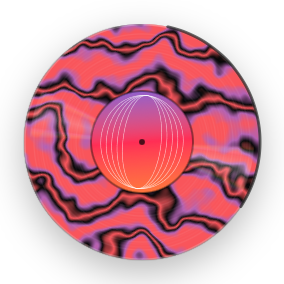
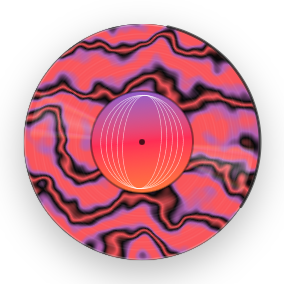
Keep vinyl opaque through interrupted pressing dissolves
Retain an opaque backing under fading pressing layers so track changes never expose the desktop. Add native annulus alpha assertions for ordinary and interrupted dissolves, including Reduce Transparency.

Verified the failing native opacity assertion before the fix; all four cases now report alpha 1.0. The full 314-test suite, macOS build, cache fixture and native lifecycle fixture pass. Save updated evidence and keep GPU/live-runtime acceptance limitations explicit.

Changed region(s): [[0.0845, 0.0845, 0.9296, 0.9296], [0.7042, 0.8451, 0.7324, 0.8732], [0.2817, 0.507, 0.3099, 0.5352]]

diff --git a/docs/superpowers/verification/VinylPressingProbe.swift b/docs/superpowers/verification/VinylPressingProbe.swift
@@ -224,15 +224,35 @@ private struct PressingProbeScene: View {
         try require(annulusDifference(cImage, repeated, center: controller.layout.recordCenter, diameter: controller.layout.recordDiameter) < 0.003, "occurrence must not change pressing")
         select("spotify:track:pressingB", artwork: bURL)
         try await settle(200)
-        try await capture(panel, output: output, name: "dissolve-b-200ms")
+        let dissolving = try await capture(panel, output: output, name: "dissolve-b-200ms")
+        try requireOpaque(dissolving, center: controller.layout.recordCenter, diameter: controller.layout.recordDiameter,
+                          name: "ordinary dissolve")
         try require(MonolithPressingProbe.layers >= 2, "dissolve must retain outgoing layer")
         select("spotify:track:pressingA", artwork: aURL)
         try await settle(200)
         let interrupted = try await capture(panel, output: output, name: "dissolve-interrupted-200ms")
+        try requireOpaque(interrupted, center: controller.layout.recordCenter, diameter: controller.layout.recordDiameter,
+                          name: "interrupted dissolve")
         try require(saturatedFraction(interrupted, center: controller.layout.recordCenter, diameter: controller.layout.recordDiameter) > 0.2, "interrupted dissolve must not flash neutral")
         try await settle(800)
         try require(MonolithPressingProbe.layers == 1, "settled dissolve must release outgoing layers")
         try await stopped("pressing dissolve settled")
+
+        settings.reduceTransparency = true
+        try await settle(300)
+        select("spotify:track:pressingB", artwork: bURL)
+        try await settle(200)
+        let reducedDissolve = try await capture(panel, output: output, name: "dissolve-reduce-transparency-200ms")
+        try requireOpaque(reducedDissolve, center: controller.layout.recordCenter, diameter: controller.layout.recordDiameter,
+                          name: "Reduce Transparency dissolve")
+        select("spotify:track:pressingA", artwork: aURL)
+        try await settle(200)
+        let reducedInterrupted = try await capture(panel, output: output, name: "dissolve-reduce-transparency-interrupted-200ms")
+        try requireOpaque(reducedInterrupted, center: controller.layout.recordCenter, diameter: controller.layout.recordDiameter,
+                          name: "Reduce Transparency interrupted dissolve")
+        try await settle(800)
+        try require(MonolithPressingProbe.layers == 1, "Reduce Transparency dissolve must release outgoing layers")
+        settings.reduceTransparency = false
 
         select("spotify:track:late", artwork: nil); try await settle(800)
         try expect("spotify:track:late", .neutral)
@@ -464,6 +484,21 @@ private struct PressingProbeScene: View {
             }
         }
         return Double(coloured) / Double(max(1, total))
+    }
+    private static func requireOpaque(_ image: CGImage, center: CGPoint, diameter: CGFloat, name: String) throws {
+        let bitmap = NSBitmapImageRep(cgImage: image)
+        var minimumAlpha = 1.0, count = 0
+        for y in stride(from: Int(center.y * 2 - diameter), to: Int(center.y * 2 + diameter), by: 4) {
+            for x in stride(from: Int(center.x * 2 - diameter), to: Int(center.x * 2 + diameter), by: 4) {
+                let distance = hypot(Double(x) - center.x * 2, Double(y) - center.y * 2)
+                guard distance > diameter * 0.55, distance < diameter * 0.85,
+                      let color = bitmap.colorAt(x: x, y: y) else { continue }
+                minimumAlpha = min(minimumAlpha, color.alphaComponent)
+                count += 1
+            }
+        }
+        try require(count > 0 && minimumAlpha >= 0.995, "\(name) must stay opaque; minimum annulus alpha \(minimumAlpha)")
+        print("OPACITY \(name): minimum annulus alpha \(minimumAlpha), \(count) samples"); fflush(stdout)
     }
     private static func annulusDifference(_ first: CGImage, _ second: CGImage, center: CGPoint, diameter: CGFloat) -> Double {
         let a = NSBitmapImageRep(cgImage: first), b = NSBitmapImageRep(cgImage: second)

diff --git a/Bopify/Bopify/Views/VinylRecordView.swift b/Bopify/Bopify/Views/VinylRecordView.swift
@@ -27,6 +27,7 @@ struct VinylRecordView: View {
             ZStack {
                 ZStack {
                     ZStack {
+                        Circle().fill(Color(red: 0.035, green: 0.055, blue: 0.05))
                         VinylPressingView(seed: pressingSeed, palette: palette, diameter: diameter)
                             .id(PressingAppearance(seed: pressingSeed, palette: palette))
                             .transition(.opacity)

diff --git a/docs/superpowers/verification/2026-10-11-vinyl-pressing-and-motor.md b/docs/superpowers/verification/2026-10-11-vinyl-pressing-and-motor.md
@@ -23,7 +23,7 @@ python3 docs/superpowers/verification/run-monolith-probe.py --derived-data /priv
 VINYL_PROBE_COMPARE_DIR="$PWD/docs/superpowers/verification/assets/vinyl-pressing-2026-10-11" python3 docs/superpowers/verification/run-monolith-probe.py --derived-data /private/tmp/bopify-pressing-build --output /private/tmp/bopify-pressing-native --probe pressing --measure-ambient
 ~~~
 
-Saved output: [package](assets/vinyl-pressing-2026-10-11/package-results.txt), [cache](assets/vinyl-pressing-2026-10-11/cache-results.txt), [native](assets/vinyl-pressing-2026-10-11/native-results.txt). Xcode emitted its existing “Supported platforms for the buildables in the current scheme is empty” notice and exited successfully.
+Saved output: [build](assets/vinyl-pressing-2026-10-11/build-results.txt), [package](assets/vinyl-pressing-2026-10-11/package-results.txt), [cache](assets/vinyl-pressing-2026-10-11/cache-results.txt), [native](assets/vinyl-pressing-2026-10-11/native-results.txt). Xcode emitted its existing “Supported platforms for the buildables in the current scheme is empty” notice and exited successfully.
 
 ## Native visual matrix
 
@@ -46,7 +46,7 @@ Accessibility inputs use writable backing keys exposed by the local Xcode 27 Swi
 
 Annulus comparisons exclude the label and rim. Repeating URI C with a different occurrence produces the [same pressing](assets/vinyl-pressing-2026-10-11/identity-c-repeat.png) as [C](assets/vinyl-pressing-2026-10-11/identity-c.png). [A](assets/vinyl-pressing-2026-10-11/identity-a.png) and C share artwork but have different seeded swirls. All 16 matrix annuli had mean RGB difference **0.0** across two independent processes on this hardware.
 
-While B's extractor is suspended, [A stays visible](assets/vinyl-pressing-2026-10-11/identity-b-pending.png), with its original seed. C remains selected when B finishes late. [B at 200 ms](assets/vinyl-pressing-2026-10-11/dissolve-b-200ms.png) and an [interrupted dissolve](assets/vinyl-pressing-2026-10-11/dissolve-interrupted-200ms.png) retain colour. At least two layers exist during a dissolve and exactly one after settling. Missing URL, extraction/HTTP failure, late URL, late Track metadata with known queue URI and mirror URI without metadata resolve to the expected seed/palette pair.
+While B's extractor is suspended, [A stays visible](assets/vinyl-pressing-2026-10-11/identity-b-pending.png), with its original seed. C remains selected when B finishes late. [B at 200 ms](assets/vinyl-pressing-2026-10-11/dissolve-b-200ms.png) and an [interrupted dissolve](assets/vinyl-pressing-2026-10-11/dissolve-interrupted-200ms.png) retain colour and opacity. Their annuli, and both [ordinary](assets/vinyl-pressing-2026-10-11/dissolve-reduce-transparency-200ms.png) and [interrupted](assets/vinyl-pressing-2026-10-11/dissolve-reduce-transparency-interrupted-200ms.png) Reduce Transparency dissolves, each have minimum alpha 1.0 across 2,716 sampled pixels. At least two pressing layers exist during a dissolve and exactly one after settling. Missing URL, extraction/HTTP failure, late URL, late Track metadata with known queue URI and mirror URI without metadata resolve to the expected seed/palette pair.
 
 Cache checks cover image-only thumbnails, one extraction for ten overlapping requests, decoded-image reuse, published/pending palette eviction, clear/replacement races, negative-cache lifetimes, 640 px decoding and the 112-entry cap. Four fixed extraction inputs produced identical values/order in two processes. A solid sRGB fixture pins the readback boundary; it exposed and corrected alpha division and double colour conversion.
 
@@ -89,7 +89,19 @@ Compositor observations only; display labels are local to each trace:
 4. Check buffering policy directly because no model event produces that phase. Risk: the live buffering transition remains unverified.
 5. Use the displayed queue URI while Track metadata is absent; mirror URI has priority. Risk: a neutral pressing takes a pending song seed before metadata confirms it.
 6. Replace the app override with fixture-only SDK backing keys; NSAppearance alone did not change contrast. Risk: the fixture may need adaptation to a future SDK; no underscored API ships.
+7. Leave record-specific GPU regression unverified because the owned-process traces lack attributed GPU intervals. Risk: an undetected GPU regression.
+8. Leave live Spotify buffering/recovery unverified because no live session or buffering event path was exercised; playback-model changes remain outside scope. Risk: live transitions could differ from fixtures.
+9. Leave macOS 14 runtime behavior unverified; its deployment target builds, but native execution covers macOS 27.0.1. Risk: an older-runtime rendering or lifecycle defect.
+10. Leave actual system accessibility preference notification delivery unverified; fixture inputs exercise the unchanged production environment reads. Risk: real preference changes could fail to update the record.
+11. Claim pixel identity across launches on tested hardware, without promising identical pixels across devices; that is beyond the approved requirement. Risk: swirls could vary between GPUs or OS versions.
+12. Keep an opaque dark circle beneath all pressing transitions to preserve the approved interruption behavior. Risk: intermediate colours could look slightly darker; native saturation checks guard neutral flashes.
 
 Whole-worktree diff checking is clean. The original checkout's unrelated changes were preserved; its earlier whitespace baseline does not apply here.
 
-Independent whole-branch review is pending. Live Spotify buffering/recovery and attributable record GPU timing remain acceptance follow-ups.
+## Independent review and correction
+
+One fresh whole-branch reviewer found no Critical or Minor issues and one Important issue: opacity transitions made the record itself translucent during skips. Readback of the original captures confirmed alpha 0.835–0.843 during a dissolve and 0.710–0.722 during an interruption. The new native regression [failed before the fix](assets/vinyl-pressing-2026-10-11/opacity-red-results.txt), with minimum annulus alpha 0.843, as shown in the [before capture](assets/vinyl-pressing-2026-10-11/dissolve-opacity-before.png).
+
+An opaque backing now stays beneath the keyed pressing layers. Ordinary and interrupted dissolves, including Reduce Transparency, pass the new alpha assertion. The label, grooves, colour retention and outgoing-layer lifetime checks also pass. The full 314-test suite, app build, native cache fixture and full player fixture pass after the correction. No second review was dispatched; the finding was verified RED→GREEN. Deferred minors: none.
+
+The GPU recordings predate this final backing correction and remain unattributed. Live Spotify buffering/recovery and attributable record GPU timing remain acceptance follow-ups.

diff --git a/docs/superpowers/plans/2026-10-11-vinyl-pressing-and-motor.md b/docs/superpowers/plans/2026-10-11-vinyl-pressing-and-motor.md
@@ -10,7 +10,7 @@
 
 **Spec:** [2026-10-11-vinyl-pressing-and-motor-design.md](../specs/2026-10-11-vinyl-pressing-and-motor-design.md).
 
-**Status:** Approved for Native execution in a new worktree on 2026-10-11. Implementation in progress.
+**Status:** Implemented with Native execution in a new worktree on 2026-10-11. Independent review completed; its opacity finding is fixed and verified. Record-specific GPU timing and live Spotify buffering/recovery remain unverified; see the [verification report](../verification/2026-10-11-vinyl-pressing-and-motor.md).
 
 ## Global Constraints
 
@@ -150,11 +150,11 @@ The historical visual/composition probes use outdated production constructors. U
 
 **Interfaces:** Use production views and controlled fixtures for native evidence; identify live-player, fixture, pure-unit, and unavailable checks separately.
 
-- [ ] **1. Capture and inspect the complete visual matrix.** At 118/182 pt in light/dark appearance capture colourful, warm orange/red with attention rim, black-and-white, missing artwork, and repeated same-song pressings. Compare against Task 4 baseline with the motor paused and other animated layers settled. Include Increased Contrast, Reduce Motion, and Reduce Transparency. Confirm label/grooves/rim remain readable and pressing identity survives a fresh process.
-- [ ] **2. Exercise the running player and scheduling.** Use the focused native fixture for play/pause/end/scrub/release, hidden/disappeared states, active-device loss, and Reduce Motion during spin-up/brake. Exercise real app buffering/recovery if the signed-in session permits; otherwise report fixture coverage and the unavailable live boundary. After every finite transition require two separate settled sampling windows with zero ambient ticks, preceded by a positive playing control.
-- [ ] **3. Compare GPU frame time.** Use Instruments' available Metal/GPU timing against the same 182 pt surface, appearance, scale, steady playback, and capture duration as Task 4. Record hardware/OS, capture duration, baseline/after statistics, and any practical regression. Do not substitute CPU timing or pure shader math for GPU evidence; if unavailable, mark this acceptance item unverified rather than claiming success.
-- [ ] **4. Run final regression checks once fixes are complete.** Run the full package suite, app build, cache probe, and pressing probe with ambient instrumentation. Run scoped git diff --check on task-owned tracked files and inspect new files too. Whole-tree diff checking currently reports unrelated whitespace in the dirty librespot queue patch; record that baseline rather than changing it or asserting the entire workspace is clean.
-- [ ] **5. Write the evidence report and obtain independent review.** Map spec acceptance items 1–7 to commands, observed output, captures, and GPU evidence. Identify unavailable checks explicitly; they remain incomplete. Fix review findings within scope, rerun affected checks, and commit as `Verify native vinyl pressings and motor settling`. Follow the selected execution workflow's independent review and branch finishing steps; no merge or publication is authorized by this plan.
+- [x] **1. Capture and inspect the complete visual matrix.** At 118/182 pt in light/dark appearance capture colourful, warm orange/red with attention rim, black-and-white, missing artwork, and repeated same-song pressings. Compare against Task 4 baseline with the motor paused and other animated layers settled. Include Increased Contrast, Reduce Motion, and Reduce Transparency. Confirm label/grooves/rim remain readable and pressing identity survives a fresh process.
+- [x] **2. Exercise the running player and scheduling.** Use the focused native fixture for play/pause/end/scrub/release, hidden/disappeared states, active-device loss, and Reduce Motion during spin-up/brake. Exercise real app buffering/recovery if the signed-in session permits; otherwise report fixture coverage and the unavailable live boundary. After every finite transition require two separate settled sampling windows with zero ambient ticks, preceded by a positive playing control.
+- [ ] **3. Compare GPU frame time.** Attempted; record-specific comparison remains unverified because Instruments tables lack app attribution. Use Instruments' available Metal/GPU timing against the same 182 pt surface, appearance, scale, steady playback, and capture duration as Task 4. Record hardware/OS, capture duration, baseline/after statistics, and any practical regression. Do not substitute CPU timing or pure shader math for GPU evidence; if unavailable, mark this acceptance item unverified rather than claiming success.
+- [x] **4. Run final regression checks once fixes are complete.** Run the full package suite, app build, cache probe, and pressing probe with ambient instrumentation. Run scoped git diff --check on task-owned tracked files and inspect new files too. Whole-tree diff checking currently reports unrelated whitespace in the dirty librespot queue patch; record that baseline rather than changing it or asserting the entire workspace is clean.
+- [x] **5. Write the evidence report and obtain independent review.** Map spec acceptance items 1–7 to commands, observed output, captures, and GPU evidence. Identify unavailable checks explicitly; they remain incomplete. Fix review findings within scope, rerun affected checks, and commit as `Verify native vinyl pressings and motor settling`. Follow the selected execution workflow's independent review and branch finishing steps; no merge or publication is authorized by this plan.
 
 ## Current References
 

diff --git a/docs/superpowers/specs/2026-10-11-vinyl-pressing-and-motor-design.md b/docs/superpowers/specs/2026-10-11-vinyl-pressing-and-motor-design.md
@@ -2,7 +2,7 @@
 
 Date: 2026-10-11
 
-Status: Approved for implementation planning on 2026-10-11; immediate stops for loading, buffering, and recovery confirmed.
+Status: Implemented and independently reviewed on 2026-10-11. Native fixture checks and 314 package tests pass; record-specific GPU timing and live Spotify buffering/recovery remain unverified. See the [verification report](../verification/2026-10-11-vinyl-pressing-and-motor.md).
 
 ## Intent and approved scope
 
